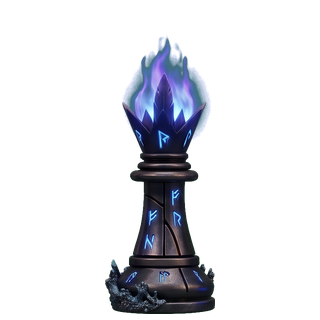
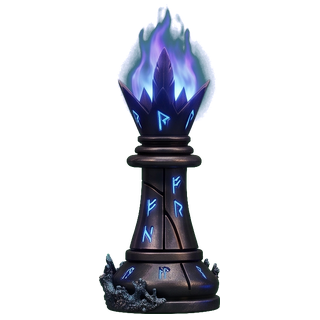
Let black run two percent tall, so it stops looking shrunken
Black was matched to white at 0.92 of each piece's height and read as the
smaller side. It is now 1.02 -- very slightly taller than white, not smaller.

A dark shape reads smaller than a light one of the same size against the same
background. Matching the measured heights exactly still looks wrong for that
reason, and matching them below it compounds the effect. The two percent is
paid to the eye rather than to the ruler.

The black king lands at 314 of the 320 canvas, which with the six-pixel
baseline margin is the ceiling; anything more would start clipping.

Claude-Session: https://claude.ai/code/session_01LiXZnuzu6WQwHSooUohDJq

Changed region(s): [[0.3125, 0.0, 0.6875, 1.0]]

diff --git a/assets/board/README.md b/assets/board/README.md
@@ -14,8 +14,10 @@ a falcon.
 
 **The two sides are not one set in two colours** -- they are separate designs
 from separate sheets, and white is the imposing one. The king fills all but a
-few pixels of its square, and every black piece stands at **0.92 of the white
-piece of the same type**.
+few pixels of its square, and every black piece stands at **1.02 of the white
+piece of the same type** -- very slightly taller, on purpose. A dark shape
+reads smaller than a light one of the same size, so matching the numbers
+exactly makes black look shrunken. The two percent buys back the illusion.
 
 That last part is the whole trick, and it is not the obvious way to do it. The
 obvious way scales each row as a unit, so every piece inherits the internal
@@ -33,7 +35,7 @@ Heights as shipped, in pixels of the 320 canvas:
 | | K | Q | R | B | N | P |
 |---|---|---|---|---|---|---|
 | white | 308 | 304 | 221 | 298 | 250 | 167 |
-| black | 283 | 280 | 201 | 274 | 230 | 154 |
+| black | 314 | 310 | 223 | 304 | 255 | 170 |
 
 Both sides come from the second row of their sheet -- the one with flame and
 runes. The first row of each is a quieter alternative, still there.
@@ -44,7 +46,7 @@ Two sheets, because the sides were generated separately:
 
 ```
 python3 recorta_pecas.py brancas-fonte.png . "-,w" 308            # 2a fila
-python3 recorta_pecas.py pretas-fonte.png  . "-,b" ref:.:0.92     # 2a fila
+python3 recorta_pecas.py pretas-fonte.png  . "-,b" ref:.:1.02     # 2a fila
 ```
 
 The third argument says what each row of the sheet is, top to bottom -- `w`,
